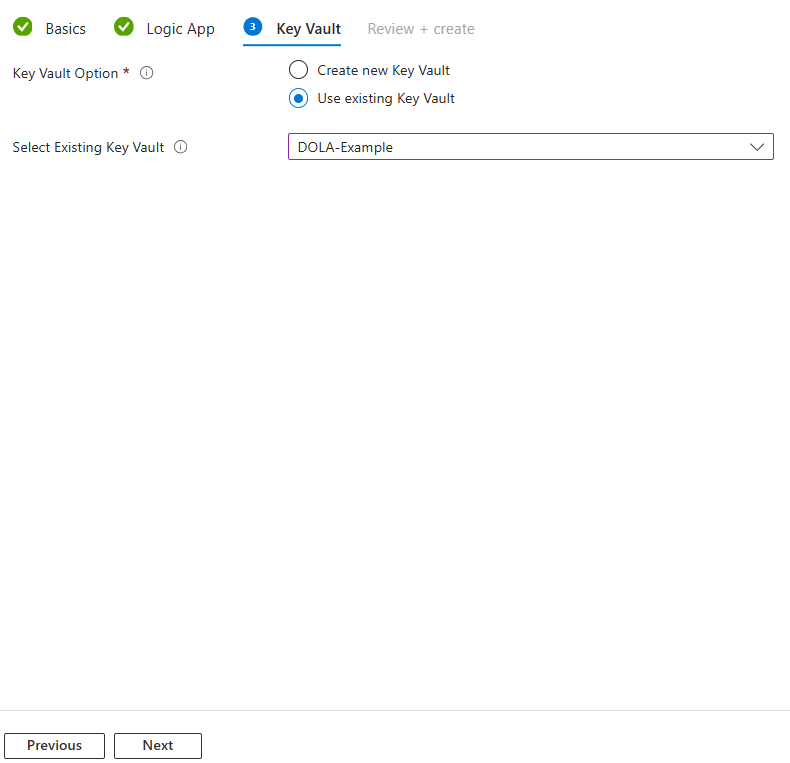
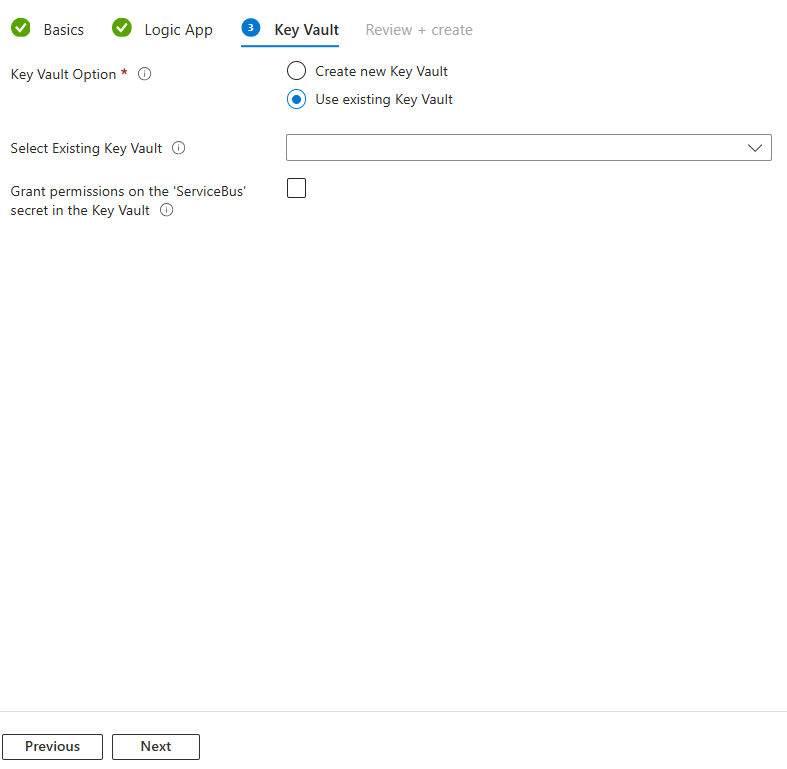
Documentation update.

diff --git a/README.md b/README.md
@@ -33,7 +33,7 @@ The Key Vault contains a shared access signature (aka SAS), not the Service Bus 
 The Key Vault call and the Graph API call both use the system managed identity associated with the Logic App. You don't need to manage secrets for this but you need to grant permissions to the identity to:
 1. Query the Key Vault (this is done by a deployement task but can also be done direcly on the Key Vault in Azure).
 2. Query the Graph API 
-`https://graph.microsoft.com/beta/deviceManagement` endpoint. API permissions cannot be set in a deployement task and there is no graphical interface to set those permissions in the Entra ID poral. For this operation, you can use PowerShell like this sample: [Set-API-Permissions.ps1](tools/Set-API-Permissions.ps1).
+`https://graph.microsoft.com/beta/deviceManagement` endpoint. API permissions cannot be set in a deployment task and there is no graphical interface to set those permissions in the Entra ID poral. For this operation, you can use PowerShell like this sample: [Set-API-Permissions.ps1](tools/Set-API-Permissions.ps1).
 
 
 
@@ -56,4 +56,13 @@ Here you can either pick an existing Key Vault:
 
  Or chose to create a new one:
 
- ![Deployement STEP 3-1](images/ARMDeployement-3-2.png)
+![Deployement STEP 3-1](images/ARMDeployement-3-2.png)
+
+If you have permission to set role on the key vault, you can check the checkbox. You would need to be an owner or have the User Access Administrator role on the key vault of the existing keyvault.
+
+
+## Post Deployment
+
+You will need to grant permission to the Graph API programatically for example using this script: [Set-API-Permissions.ps1](tools/Set-API-Permissions.ps1).
+
+It is recommended to enable [Defender for Keyvault](https://learn.microsoft.com/en-us/azure/defender-for-cloud/defender-for-key-vault-introduction) on your keyvault to detect potential abuse and gain visibility on access and security recommendations. 
